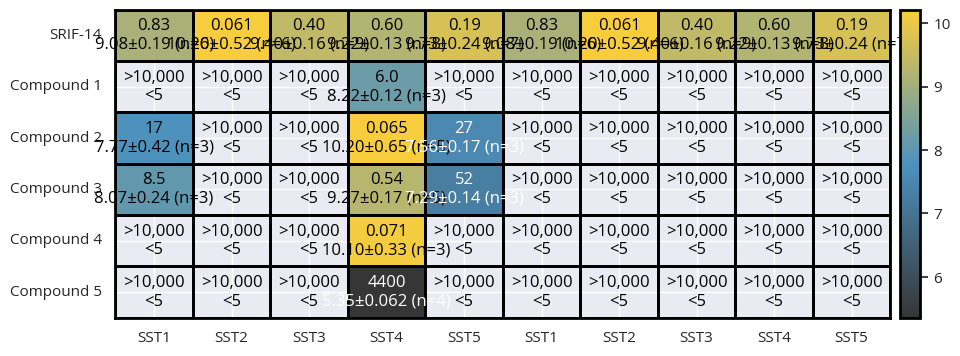
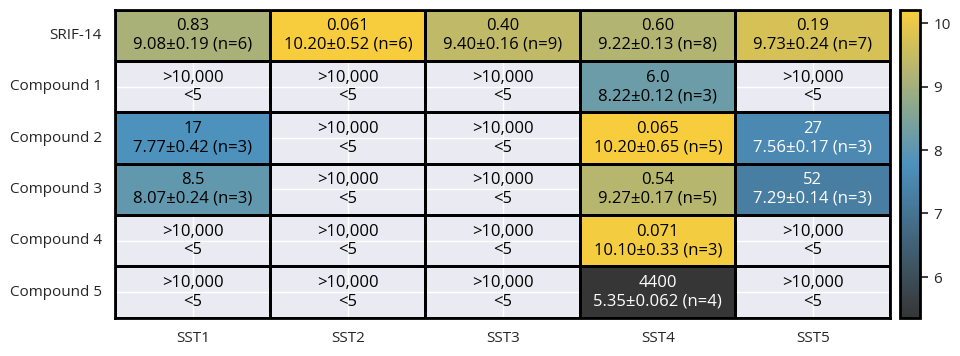
Updated example heatmap

diff --git a/main.py b/main.py
@@ -47,7 +47,8 @@ from pandas import DataFrame
 # Adjustable parameters
 parameters = {
     "files": [
-        "data/example.csv"
+        "data/fj1_analogs_ci95.csv",
+        # "data/example.csv"
     ],
     "significant_digits": 2,
     "column_names": ["SST1", "SST2", "SST3", "SST4", "SST5"],
